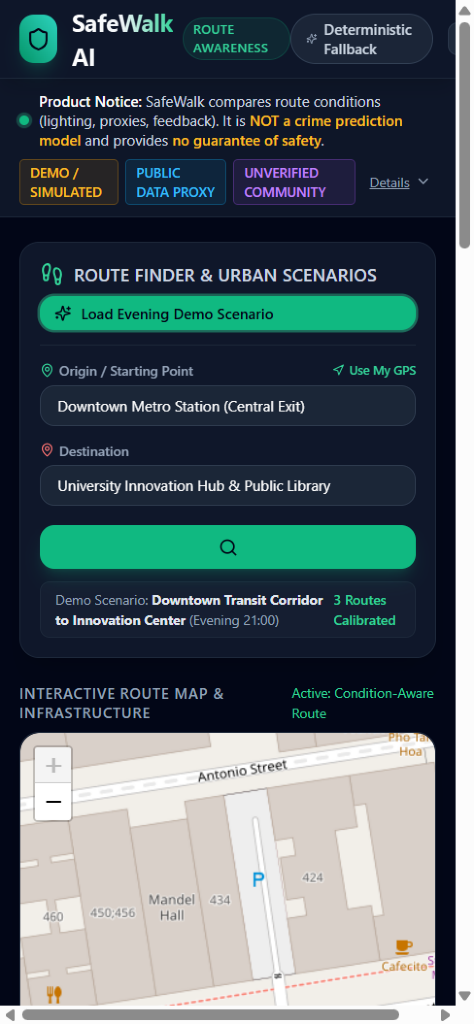
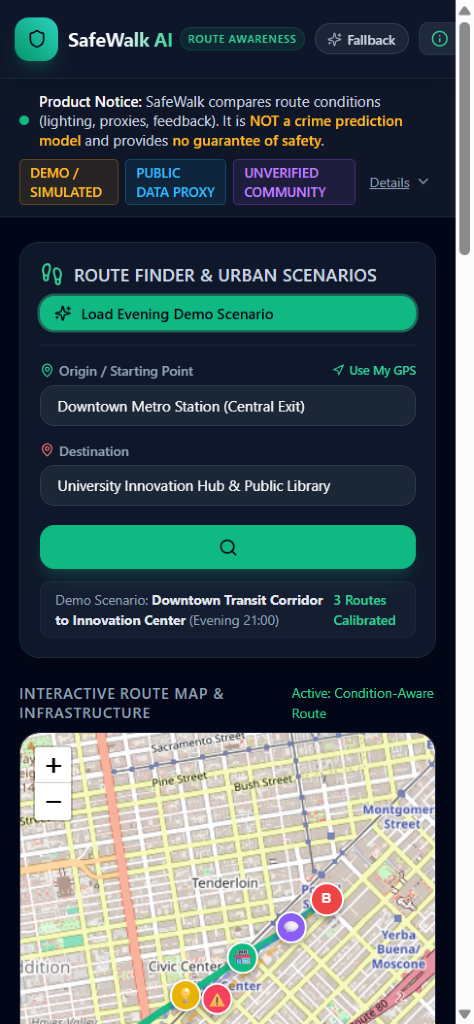
fix(copy): refine data claims to explicit simulation proxies and eliminate mobile horizontal scrollbar

diff --git a/app/components/Navbar.tsx b/app/components/Navbar.tsx
@@ -10,19 +10,19 @@ interface NavbarProps {
 
 export const Navbar: React.FC<NavbarProps> = ({ onOpenDisclosures, geminiActive }) => {
   return (
-    <header className="sticky top-0 z-40 bg-night-900/95 backdrop-blur-md border-b border-slate-800 text-white shadow-lg">
-      <div className="max-w-7xl mx-auto px-4 sm:px-6 lg:px-8 h-16 flex items-center justify-between">
+    <header className="sticky top-0 z-40 bg-night-900/95 backdrop-blur-md border-b border-slate-800 text-white shadow-lg overflow-x-hidden">
+      <div className="max-w-7xl mx-auto px-3 sm:px-6 lg:px-8 h-16 flex items-center justify-between gap-2">
         {/* Brand */}
-        <div className="flex items-center space-x-3">
-          <div className="w-10 h-10 rounded-xl bg-gradient-to-tr from-emerald-600 to-teal-400 flex items-center justify-center shadow-lg shadow-emerald-500/20">
-            <Shield className="w-5 h-5 text-night-950 font-bold" />
+        <div className="flex items-center space-x-2 sm:space-x-3 flex-shrink-0">
+          <div className="w-9 h-9 sm:w-10 sm:h-10 rounded-xl bg-gradient-to-tr from-emerald-600 to-teal-400 flex items-center justify-center shadow-lg shadow-emerald-500/20 flex-shrink-0">
+            <Shield className="w-4 h-4 sm:w-5 sm:h-5 text-night-950 font-bold" />
           </div>
           <div>
-            <div className="flex items-center space-x-2">
-              <span className="text-xl font-bold tracking-tight bg-gradient-to-r from-white via-slate-100 to-emerald-400 bg-clip-text text-transparent">
+            <div className="flex items-center space-x-1.5 sm:space-x-2">
+              <span className="text-base sm:text-xl font-bold tracking-tight bg-gradient-to-r from-white via-slate-100 to-emerald-400 bg-clip-text text-transparent">
                 SafeWalk AI
               </span>
-              <span className="text-[10px] uppercase font-semibold tracking-wider px-2 py-0.5 rounded-full bg-emerald-500/10 text-emerald-400 border border-emerald-500/20">
+              <span className="text-[9px] sm:text-[10px] uppercase font-semibold tracking-wider px-1.5 sm:px-2 py-0.5 rounded-full bg-emerald-500/10 text-emerald-400 border border-emerald-500/20 hidden sm:inline-block">
                 Route Awareness
               </span>
             </div>
@@ -33,23 +33,24 @@ export const Navbar: React.FC<NavbarProps> = ({ onOpenDisclosures, geminiActive 
         </div>
 
         {/* Right Status & Actions */}
-        <div className="flex items-center space-x-3">
+        <div className="flex items-center space-x-2 sm:space-x-3 flex-shrink-0">
           {/* AI Mode Pill */}
-          <div className="flex items-center space-x-1.5 px-3 py-1 rounded-full text-xs border font-medium bg-slate-800/80 border-slate-700 text-slate-300">
-            <Sparkles className={`w-3.5 h-3.5 ${geminiActive ? 'text-amber-400 animate-pulse' : 'text-slate-400'}`} />
+          <div className="flex items-center space-x-1 sm:space-x-1.5 px-2.5 sm:px-3 py-1 rounded-full text-[11px] sm:text-xs border font-medium bg-slate-800/80 border-slate-700 text-slate-300">
+            <Sparkles className={`w-3 h-3 sm:w-3.5 sm:h-3.5 ${geminiActive ? 'text-amber-400 animate-pulse' : 'text-slate-400'}`} />
             <span className="hidden md:inline">Engine:</span>
             <span className={geminiActive ? 'text-amber-300 font-semibold' : 'text-slate-300'}>
-              {geminiActive ? 'Gemini 1.5 Flash' : 'Deterministic Fallback'}
+              <span className="hidden sm:inline">{geminiActive ? 'Gemini 1.5 Flash' : 'Deterministic Fallback'}</span>
+              <span className="sm:hidden">{geminiActive ? 'Gemini' : 'Fallback'}</span>
             </span>
           </div>
 
           {/* Data Honesty / Disclosures Modal Trigger */}
           <button
             onClick={onOpenDisclosures}
-            className="flex items-center space-x-1.5 px-3 py-1.5 rounded-lg text-xs font-medium bg-slate-800 hover:bg-slate-700 text-slate-200 hover:text-white transition-all border border-slate-700/60"
+            className="flex items-center space-x-1 sm:space-x-1.5 px-2.5 sm:px-3 py-1.5 rounded-lg text-xs font-medium bg-slate-800 hover:bg-slate-700 text-slate-200 hover:text-white transition-all border border-slate-700/60 flex-shrink-0"
             title="View Data Provenance, Limitations and Contest Disclosures"
           >
-            <Info className="w-3.5 h-3.5 text-emerald-400" />
+            <Info className="w-3.5 h-3.5 text-emerald-400 flex-shrink-0" />
             <span className="hidden sm:inline">Data Trust & Rules</span>
           </button>
         </div>

diff --git a/app/data/demoData.ts b/app/data/demoData.ts
@@ -77,21 +77,21 @@ const routeBFactors = {
     source: "Municipal Streetlight Grid (Open Data Proxy)",
     status: "demo-simulated" as const,
     observedAt: "2026-11-24",
-    details: "Continuous LED streetlights and illuminated bus shelters along Grand Ave.",
+    details: "Simulated streetlight proxy: Continuous LED streetlights and illuminated bus shelters along Grand Ave.",
   },
   reportedIncidents: {
     count: 0,
     source: "Public Safety Incident Log (Simulated Sample)",
     status: "demo-simulated" as const,
-    observedAt: "Last 90 days",
-    details: "No incidents recorded in available public dataset for this corridor.",
+    observedAt: "Last 90 days (Simulated Period)",
+    details: "No incidents recorded in the simulated incident sample for this corridor (not a crime-free guarantee).",
   },
   pedestrianActivity: {
     level: "High / Active",
     source: "Pedestrian Footfall Proxy",
     status: "demo-simulated" as const,
     observedAt: "Current Evening Interval",
-    details: "Active foot traffic; multiple open cafes, transit stops, and well-lit bank lobbies.",
+    details: "Demo pedestrian-activity proxy: active evening footfall from open commercial storefronts and transit stops.",
   },
   communityFeedback: {
     count: 6,
@@ -107,7 +107,7 @@ const routeBBreakdown = calculateAwarenessIndex(routeBFactors);
 export const DEMO_ROUTE_AWARE: RouteOption = {
   id: "route-condition-aware",
   label: "Condition-Aware Route",
-  tagline: "+4 mins walk: 88% continuous lighting & active pedestrian boulevard",
+  tagline: "+4 mins walk: 88% simulated street-lighting proxy indicator & active demo footfall corridor",
   distanceMeters: 1420,
   durationMinutes: 18,
   isDemo: true,
@@ -123,7 +123,7 @@ export const DEMO_ROUTE_AWARE: RouteOption = {
   factors: routeBFactors,
   breakdown: routeBBreakdown.breakdown,
   coverageLabel: "Strong Observational Coverage (Simulated)",
-  explanation: "Main boulevard route with 88% verified lighting fixtures, steady pedestrian footfall from evening storefronts, and positive community walk reports.",
+  explanation: "Main boulevard route with 88% simulated street-lighting proxy indicator, steady demo pedestrian-activity proxy from evening storefronts, and positive community walk reports.",
 };
 
 // Route C: Transit Corridor (Alternative)
@@ -188,7 +188,7 @@ export const INITIAL_MAP_POIS: MapMarkerPOI[] = [
     position: [37.7780, -122.4168],
     type: "light",
     title: "High-Output Smart LED Corridor",
-    description: "Public infrastructure proxy: Verified operational LED streetlights along Grand Ave.",
+    description: "Demo infrastructure proxy: Simulated operational LED streetlights along Grand Ave.",
     status: "demo-simulated",
   },
   {

diff --git a/app/app/api/ai/route-explanation/route.ts b/app/app/api/ai/route-explanation/route.ts
@@ -142,7 +142,7 @@ function generateDeterministicExplanation(
 
   let explanation = "";
   if (route.id === 'route-condition-aware') {
-    explanation = `The Condition-Aware Route prioritizes well-lit transit arteries with ${lightingPct}% verified operational streetlighting and ${activityLvl} pedestrian footfall from active commercial storefronts. No incidents were recorded in the recent proxy observation period.`;
+    explanation = `The Condition-Aware Route prioritizes well-lit transit arteries with an ${lightingPct}% simulated street-lighting proxy indicator and a ${activityLvl} demo pedestrian-activity proxy from evening commercial storefronts. No incidents were recorded in the simulated incident sample for this corridor.`;
   } else if (route.id === 'route-fastest') {
     explanation = `The Fastest Route saves travel time by utilizing minor connector corridors, but exhibits lower lighting coverage (${lightingPct}%) and ${activityLvl} evening footfall, alongside ${incidentCount} historical reported nuisance/theft incidents in the proxy dataset.`;
   } else {

diff --git a/app/app/page.tsx b/app/app/page.tsx
@@ -164,7 +164,7 @@ export default function SafeWalkHomePage() {
   };
 
   return (
-    <main className="min-h-screen flex flex-col bg-slate-950 text-slate-100 selection:bg-emerald-500 selection:text-night-950">
+    <main className="min-h-screen flex flex-col bg-slate-950 text-slate-100 selection:bg-emerald-500 selection:text-night-950 overflow-x-hidden">
       {/* Navbar */}
       <Navbar
         onOpenDisclosures={() => setShowDisclosuresModal(true)}

diff --git a/submission/DEMO_SCRIPT.md b/submission/DEMO_SCRIPT.md
@@ -7,18 +7,18 @@
 
 ### 0:20–0:45 — Route Search & Comparison
 “On the SafeWalk AI homepage, we click **'Load Evening Demo Scenario'** (Downtown Metro Station to University Innovation Hub & Public Library). The interactive OpenStreetMap immediately renders three calibrated corridors:
-- **Condition-Aware Route (Active Boulevard):** 18 min walk, 1420 meters, Awareness Index **92/100**.
-- **Fastest Direct Route (Industrial Alley):** 14 min walk, 1150 meters, Awareness Index **15/100**.
+- **Condition-Aware Route (Active Boulevard):** 18 min walk, 1420 meters, Awareness Index **92/100** (88% simulated street-lighting proxy indicator & demo pedestrian-activity proxy).
+- **Fastest Direct Route (Industrial Alley):** 14 min walk, 1150 meters, Awareness Index **15/100** (32% lighting proxy, 3 simulated incidents).
 - **Transit Corridor Alternative:** 16 min walk, 1280 meters, Awareness Index **68/100**.
 Notice how clicking between cards instantly updates the map polylines and highlights the selected corridor.”
 
 ### 0:45–1:10 — Transparent Deterministic Heuristic
 “Unlike black-box models that invent safety probabilities, SafeWalk uses a transparent, deterministic algorithm. Clicking **'Inspect Deterministic Formula Breakdown'** reveals the exact math:
 `Baseline (50) + Lighting (+20) + Activity (+15) + Incident Factor (+5) + Community Observations (+10) = 92/100` (capped at 92 to prevent false safety guarantees).
-Every indicator carries a clear provenance badge: `[DEMO / SIMULATED]`, `[PUBLIC PROXY]`, or `[COMMUNITY]`. Missing data is explicitly marked `UNKNOWN` and never scored as safe.”
+Every indicator carries a clear provenance badge: `[DEMO / SIMULATED]`, `[DEMO PROXY]`, or `[UNVERIFIED COMMUNITY]`. Missing data is explicitly marked `UNKNOWN` and never scored as safe.”
 
 ### 1:10–1:35 — Server-Side AI Intelligence & Fallback
-“Our server-side route intelligence endpoint analyzes the structured factors to synthesize plain-English trade-offs: *'Choosing this route adds approximately 4 minutes of walking in exchange for a +70 pt higher observational awareness index along illuminated commercial storefronts.'* When Gemini API is present, it uses Gemini 1.5 Flash; otherwise, it seamlessly provides our rule-based deterministic fallback.”
+“Our server-side route intelligence endpoint analyzes the structured factors to synthesize plain-English trade-offs: *'Choosing this route adds approximately 4 minutes of walking in exchange for a +77 pt higher observational awareness index with an 88% simulated street-lighting proxy indicator and demo pedestrian-activity proxy from evening commercial storefronts.'* When Gemini API is present, it uses Gemini 1.5 Flash; otherwise, it seamlessly provides our rule-based deterministic fallback.”
 
 ### 1:35–2:00 — Post-Journey Review & Local Persistence
 “After completing a walk, clicking **'Start Journey'** opens the Post-Journey Review modal. We select lighting ('Bright / Good'), activity ('Moderate'), check any obstructions, and add a note: *'Very clear sidewalks and good evening visibility'*.
